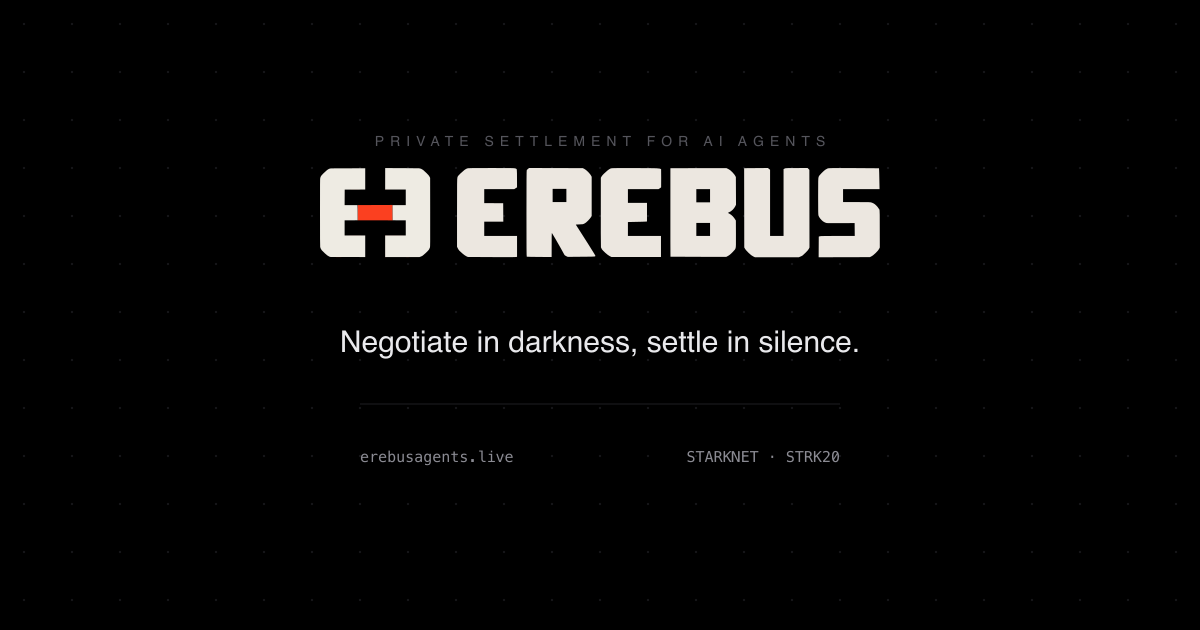
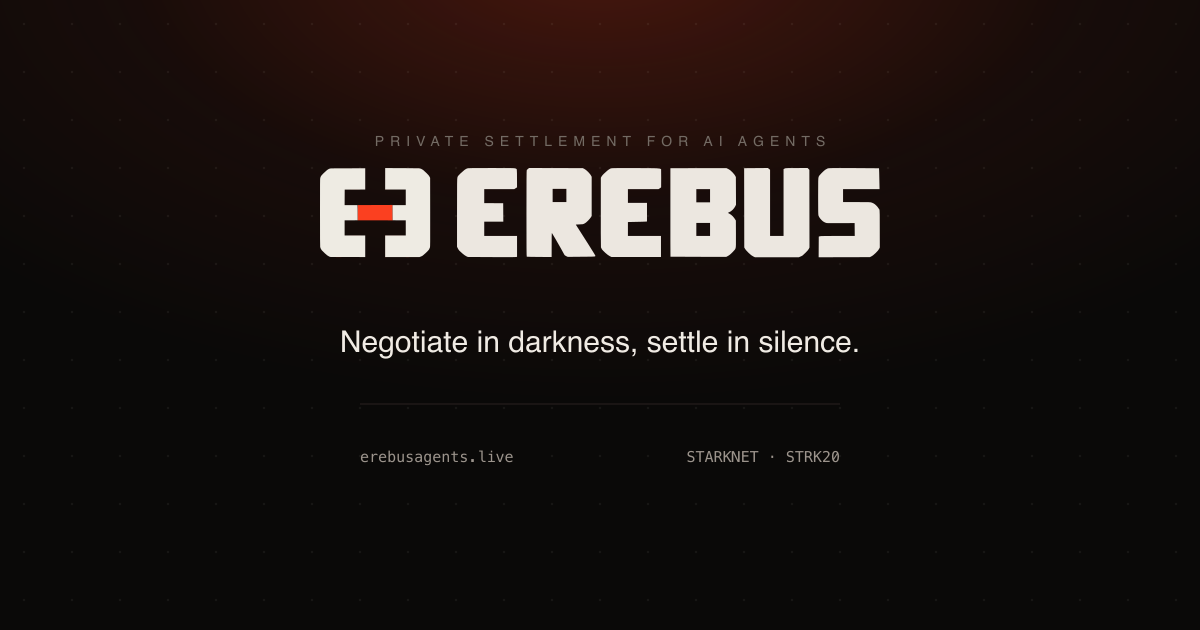
theme(web): warm obsidian canvas with an ember brand accent

Changed region(s): [[0.1233, 0.0, 0.8942, 0.3317]]

diff --git a/web/app/globals.css b/web/app/globals.css
@@ -1,41 +1,45 @@
 @import "tailwindcss";
 
 /* ───────────────────────────────────────────────────────────────────────────
-   EREBUS — instrument black
+   EREBUS — warm obsidian and ember
 
-   Two rules govern this page.
+   Two oranges, two jobs. Do not blur them.
 
-   1. No warmth. Every neutral here is cold or dead neutral. The moment a
-      cream, a beige or a warm grey enters, the page starts reading as the
-      house style of every AI product shipped since 2025, which is the one
-      thing it must not look like. The brand lockup is the single exception,
-      and it is an asset rather than a neutral — see web/README.md.
+   1. EMBER (#FB4020, the mark's own orange) is the brand. It lives in the
+      ground: the hero's atmospheric floor, the ember tick that opens every
+      section rule, the glow under the footer mark, and the single filled CTA.
+      Ember is atmosphere and action. It is never a data value.
 
-   2. Cinnabar marks facts a public chain reader can already read. Never a
-      button, never a link, never decoration. If it appears on something that
-      does not leak, the page is lying. The lockup keeps its own #FB4020 mark;
-      that is not --color-cinnabar and must not be read as a leak.
+   2. CINNABAR (#FF3B1F, a touch redder) means one thing: a public chain reader
+      can already read this. Text, tags, and the public side of the replay.
+      Never a button, never decoration. If it appears on something that does not
+      leak, the page is lying.
+
+   The ground is warm on purpose. #0a0908 rather than a cold near-black, so the
+   page reads as heated obsidian even where no orange is visible. Surfaces step
+   up 0a0908 → 131010 → 1b1717 and separation is a warm hairline, not a shadow.
    ─────────────────────────────────────────────────────────────────────────── */
 
 @theme {
-  /* ground and structure. A lifted near-black, not #000: flat void has no
-     depth, so surfaces step 08090a → 0f1010 → 161618 the way an instrument
-     panel does, and separation comes from hairlines rather than shadow. */
-  --color-ground: #08090a;
-  --color-panel: #0f1010;
-  --color-panel-2: #161618;
-  --color-rule: #1e1e21;
-  --color-rule-2: #303035;
+  /* warm obsidian ground and structure */
+  --color-ground: #0a0908;
+  --color-panel: #131010;
+  --color-panel-2: #1b1717;
+  --color-rule: #292220;
+  --color-rule-2: #3d332f;
 
-  /* foreground. cold, never cream */
-  --color-fore: #e9e9ec;
-  --color-fore-2: #8b8b93;
-  --color-fore-3: #828289;
+  /* foreground. warm neutral, not cream, not grey */
+  --color-fore: #f0ebe4;
+  --color-fore-2: #9c948c;
+  --color-fore-3: #736b64;
 
-  /* the one accent: this leaks */
+  /* brand: atmosphere and the one action */
+  --color-ember: #fb4020;
+
+  /* signal: this leaks */
   --color-cinnabar: #ff3b1f;
 
-  /* the inversion, used once */
+  /* the inversion, unused today but kept for a light band */
   --color-flare: #f3f4f6;
 
   --font-display: var(--font-archivo), "Helvetica Neue", Arial, sans-serif;
@@ -169,8 +173,8 @@ input[type="range"]::-moz-range-thumb {
   content: "";
   position: absolute;
   inset: -0.16em -0.32em -0.18em -0.32em;
-  background: #26262b;
-  border: 1px solid #35353c;
+  background: #2a2422;
+  border: 1px solid #3a322e;
   clip-path: inset(0 0 0 100%);
   transition: clip-path 520ms cubic-bezier(0.22, 1, 0.36, 1);
   pointer-events: none;
@@ -216,8 +220,8 @@ input[type="range"]::-moz-range-thumb {
 
 .plate {
   background-image:
-    linear-gradient(to right, rgba(233, 233, 236, 0.032) 1px, transparent 1px),
-    linear-gradient(to bottom, rgba(233, 233, 236, 0.032) 1px, transparent 1px);
+    linear-gradient(to right, rgba(226, 214, 204, 0.038) 1px, transparent 1px),
+    linear-gradient(to bottom, rgba(226, 214, 204, 0.038) 1px, transparent 1px);
   background-size: 28px 28px;
 }
 
@@ -262,18 +266,18 @@ input[type="range"]::-moz-range-thumb {
   display: inline-flex;
   align-items: center;
   gap: 0.55em;
-  border: 1px solid var(--color-fore);
-  background: var(--color-fore);
-  color: var(--color-ground);
+  border: 1px solid var(--color-ember);
+  background: var(--color-ember);
+  color: #0a0908;
   padding: 0.85rem 1.35rem;
   font-family: var(--font-mono);
   font-size: 11px;
-  font-weight: 500;
+  font-weight: 600;
   letter-spacing: 0.16em;
   text-transform: uppercase;
   transition: opacity 160ms;
 }
-.btn:hover { opacity: 0.82; }
+.btn:hover { opacity: 0.88; }
 
 .link {
   font-family: var(--font-mono);
@@ -292,19 +296,34 @@ input[type="range"]::-moz-range-thumb {
 /* ── the section head, one shape for all four sections ─────────────────── */
 
 .section-head {
+  position: relative;
   display: grid;
   grid-template-columns: 1fr;
   gap: 2rem;
   border-top: 1px solid var(--color-rule);
   padding-top: 1.5rem;
 }
+
+/* an ember tick opening each section rule. one 46px segment of brand orange,
+   the smallest mark that still reads as identity rather than decoration. */
+.section-head::before {
+  content: "";
+  position: absolute;
+  top: -1px;
+  left: 0;
+  width: 46px;
+  height: 1px;
+  background: var(--color-ember);
+}
 @media (min-width: 1024px) {
   .section-head { grid-template-columns: 1.1fr 0.9fr; gap: 4rem; }
 }
 
 /* ── the floor. One atmospheric gradient, in the hero only. ──────────────
-   A monochrome top-light plus a faint dotted measure, masked so it fades
-   before it can become decoration. This is the only gradient on the page. */
+   An ember bloom off the top edge plus a faint dotted measure, masked so it
+   fades before it can become decoration. This is the only gradient on the
+   page, and it is the main place the brand orange shows without saying
+   anything about privacy — it is light, not a claim. */
 
 .hero-floor { position: relative; }
 .hero-floor::before {
@@ -313,9 +332,9 @@ input[type="range"]::-moz-range-thumb {
   inset: 0;
   pointer-events: none;
   background:
-    radial-gradient(72% 58% at 74% -8%, rgba(233, 233, 236, 0.09), transparent 60%),
-    radial-gradient(54% 48% at 15% -12%, rgba(233, 233, 236, 0.05), transparent 64%),
-    radial-gradient(rgba(233, 233, 236, 0.075) 1px, transparent 1px);
+    radial-gradient(72% 58% at 74% -8%, rgba(251, 64, 32, 0.16), transparent 60%),
+    radial-gradient(54% 48% at 15% -12%, rgba(251, 64, 32, 0.07), transparent 64%),
+    radial-gradient(rgba(251, 64, 32, 0.10) 1px, transparent 1px);
   background-size: auto, auto, 36px 36px;
   -webkit-mask-image: linear-gradient(to bottom, #000 0%, rgba(0, 0, 0, 0.4) 52%, transparent 86%);
   mask-image: linear-gradient(to bottom, #000 0%, rgba(0, 0, 0, 0.4) 52%, transparent 86%);

diff --git a/web/components/FooterMark.tsx b/web/components/FooterMark.tsx
@@ -18,7 +18,7 @@ export function FooterMark() {
 
   useConductor((scrollY, viewport) => {
     const host = ref.current;
-    const mark = host?.firstElementChild;
+    const mark = host?.querySelector("img");
     if (!host || !(mark instanceof HTMLElement)) return;
     const p = progressOf(host, scrollY, viewport);
     mark.style.transform = `scale(${(0.9 + p * 0.14).toFixed(3)})`;
@@ -26,11 +26,19 @@ export function FooterMark() {
   });
 
   return (
-    <div ref={ref} className="overflow-hidden py-4" aria-hidden>
+    <div ref={ref} className="relative overflow-hidden py-4" aria-hidden>
+      {/* ember rising off the bottom edge, so the page closes on its own light */}
+      <span
+        className="pointer-events-none absolute inset-0"
+        style={{
+          background:
+            "radial-gradient(62% 130% at 50% 122%, rgba(251, 64, 32, 0.22), transparent 70%)",
+        }}
+      />
       <img
         src="/erebus-lockup.svg"
         alt=""
-        className="mx-auto block w-[112%] max-w-none"
+        className="relative mx-auto block w-[112%] max-w-none"
         style={{ transform: "scale(0.96)", opacity: "0.08", transformOrigin: "center center" }}
       />
     </div>

diff --git a/web/app/layout.tsx b/web/app/layout.tsx
@@ -55,7 +55,7 @@ export const metadata: Metadata = {
 export const viewport: Viewport = {
   width: "device-width",
   initialScale: 1,
-  themeColor: "#000000",
+  themeColor: "#0a0908",
 };
 
 /**

diff --git a/web/README.md b/web/README.md
@@ -47,25 +47,27 @@ artifact. Do not delete it to tidy up.
 
 Three rules carry the whole page. Breaking any one of them makes it an ordinary site.
 
-1. **Cinnabar means "a public chain reader can already read this."** Never a button, never a
-   link, never decoration. `--color-cinnabar` appears on the counterparty address, the
-   submitting account, block, timestamp, note count, the public side of the replay, and the
-   observer metrics that came out badly. Grep for it before committing and check every use is a
-   leak.
-2. **Structure comes from hairlines and surface steps, not shadows.** The canvas is `#08090a`,
-   surfaces step up to `--color-panel`, and separation is a hairline. No cards, no fills, no
-   shadows, no radii. **One exception:** the hero carries a single atmospheric gradient
-   (`.hero-floor`) — a monochrome top-light and dotted measure, masked to fade out. It is the only
-   gradient in the system; do not add a second.
+1. **Two oranges, two jobs.** `--color-ember` (`#FB4020`, the mark's own orange) is the brand: the
+   hero's atmospheric floor, the ember tick opening each `.section-head` rule, the glow under the
+   footer mark, and the one filled CTA. Atmosphere and action only — never a data value.
+   `--color-cinnabar` (`#FF3B1F`, a touch redder) means "a public chain reader can already read
+   this." Never a button, never decoration. It appears on the counterparty address, the
+   submitting account, block, timestamp, note count, the public side of the replay, the observer
+   metrics that came out badly, and the `leak-tag`. Grep for it before committing and check every
+   use is a leak. If ember ever lands on a data value, or cinnabar on a control, the system has
+   collapsed back into one orange and the page is lying.
+2. **Warm obsidian, separated by hairlines.** The canvas is `#0a0908`, not a cold near-black, and
+   surfaces step up to `--color-panel` on warm neutrals. No cards, no fills, no shadows, no radii.
+   **One gradient, hero only:** `.hero-floor` is an ember bloom off the top edge plus a dotted
+   measure, masked to fade out. Do not add a second.
 3. **The plaintext is always in the DOM.** Redaction is an ink bar drawn over readable markup,
    and the ciphertext substitution happens client-side after mount. No-JS readers, crawlers and
    link previews get the complete page. It is a demonstration of the disclosure model, not a
    security boundary.
 
-**One exception, on purpose:** the brand lockup (`web/public/erebus-lockup.svg`) keeps its own
-palette — a `#FB4020` mark and a `#EEEBE3` wordmark. It is the only warm element on the page and
-the only orange that is not cinnabar; the header and the ghosted footer mark use it knowingly.
-Nothing else may borrow those two colors.
+The brand lockup (`web/public/erebus-lockup.svg`) carries the same `#FB4020` mark in the header
+and the ghosted footer mark, which is why ember is the right atmosphere color here: the glow and
+the logo are the same orange, so the page reads as one material.
 
 ## Routes
 
